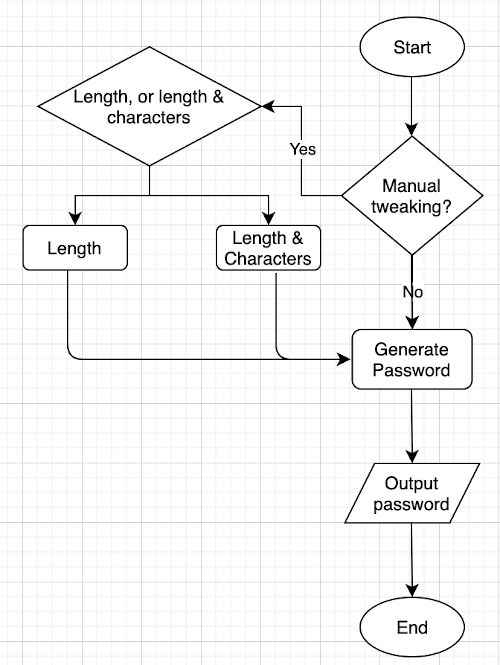
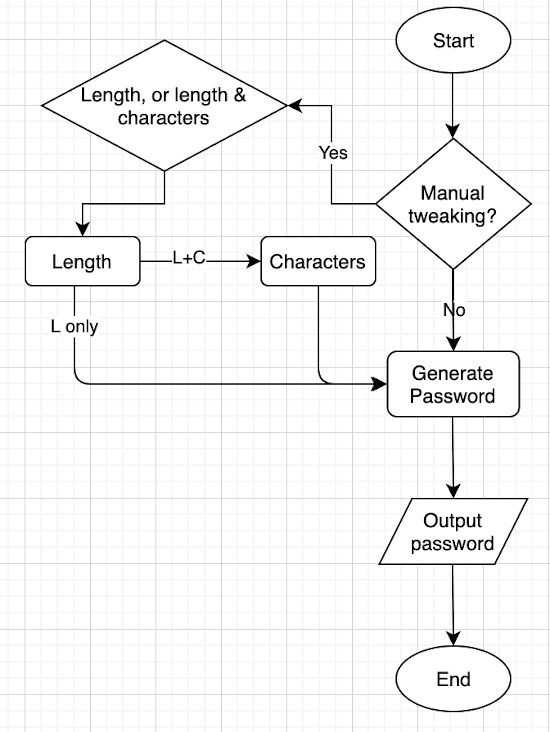
Finalise the main program

Changed region(s): [[0.03, 0.0, 0.99, 0.9925], [0.3, 0.3308, 0.39, 0.3609], [0.93, 0.4812, 0.96, 0.5113]]

diff --git a/script.js b/script.js
@@ -54,9 +54,9 @@ function writePassword() {
       }
       return shufflePassword(password);
     };
+
+    // Generate 8 character password through pre-determined patterns
     var generate8charPassword = function () {
-      var password = "";
-      // Numbers of special character, numeric, uppercase, lowercase
       var patternCollection = [
         [1, 1, 4, 2],
         [1, 1, 2, 4],
@@ -69,7 +69,6 @@ function writePassword() {
         [2, 3, 2, 1],
         [2, 3, 1, 2],
       ];
-      // Choose a pattern
       var totalPatternNum = patternCollection.length;
       var targetPatternIndex = Math.floor(Math.random() * totalPatternNum);
       var targetPattern = patternCollection[targetPatternIndex];
@@ -85,6 +84,7 @@ function writePassword() {
       );
     };
 
+    // Generate password through pre-determined pattern proportional to length range
     var generatePasswordByLength = function (length) {
       var password = "";
       var pattern;
@@ -130,52 +130,121 @@ function writePassword() {
 
     // Program starts here.
 
-    var tweakPassword = window.confirm(
-      "Would you like to manually tweak your password?"
+    var adjustPassword = window.confirm(
+      "Would you like to manually adjust your password?"
     );
 
-    if (tweakPassword) {
-      let exitTweakPassword = false;
-      while (!exitTweakPassword) {
-        var tweakOption = window.prompt(
-          "Would you like to change password length(L), character distribution(C) or both(LC)? Please key in 'L', 'C' or 'LC'."
+    if (adjustPassword) {
+      let exitadjustPassword = false;
+      while (!exitadjustPassword) {
+        var adjustOption = window.prompt(
+          "Would you like to change password length(L) or length together with characters (LC)? Please key in 'L' or 'LC'."
         );
-        if (tweakOption === null) {
+        if (adjustOption === null) {
           window.alert("You've cancelled the operation. Please try again.");
           return "";
-        } else if (
-          tweakOption == "L" ||
-          tweakOption == "C" ||
-          tweakOption == "LC"
-        ) {
-          switch (tweakOption) {
-            case "L":
-              let exitLengthOption = false;
-              while (!exitLengthOption) {
-                var desiredLength = window.prompt(
-                  "How long would you like your password be (must be longer than 8 and shorter than 128 characters. Please key in the length in number."
-                );
-                if (desiredLength === null) {
-                  window.alert(
-                    "You've cancelled the operation. Please try again."
+        } else if (adjustOption == "L" || adjustOption == "LC") {
+          let exitLengthOption = false;
+          // Loop to catch invalid input
+          while (!exitLengthOption) {
+            var desiredLength = window.prompt(
+              "How long would you like your password be? Your passwaord must be longer than 8 (inclusive) and shorter than 128 (inclusive) characters. Please key in the length in number."
+            );
+            // Convert number in string to integer
+            var desiredLengthInt = parseInt(desiredLength);
+            if (desiredLength === null) {
+              window.alert("You've cancelled the operation. Please try again.");
+              return "";
+            } else if (desiredLengthInt <= 128 && desiredLengthInt >= 8) {
+              if (adjustOption == "LC") {
+                let exitadjustSpecial = false;
+                while (!exitadjustSpecial) {
+                  var desiredSpecial = window.prompt(
+                    `Specify how many special characters you desire in your password. Remember your password length was set to ${desiredLength} earlier.`
                   );
-                  return "";
-                } else if (desiredLength <= 128 && desiredLength >= 8) {
-                  return generatePasswordByLength(desiredLength);
-                } else {
-                  window.alert("Invalid input!");
+                  var desiredSpecialInt = parseInt(desiredSpecial);
+                  if (desiredSpecial === null) {
+                    window.alert(
+                      "You've cancelled the operation. Please try again."
+                    );
+                    return "";
+                  } else if (
+                    // The biggest number should still leave 3 to accommondate the rest.
+                    desiredSpecialInt >= 1 &&
+                    desiredSpecialInt < desiredLengthInt - 3
+                  ) {
+                    let exitadjustNumeric = false;
+                    while (!exitadjustNumeric) {
+                      var desiredNumeric = window.prompt(
+                        `Specify how many numeric characters you desire. Remember your password length was set to ${desiredLength} earlier and you have set ${desiredSpecial} special characters.`
+                      );
+                      var desiredNumericInt = parseInt(desiredNumeric);
+                      if (desiredNumeric === null) {
+                        window.alert(
+                          "You've cancelled the operation. Please try again."
+                        );
+                        return "";
+                      } else if (
+                        // The biggest number should still leave 2 to accommondate the rest.
+                        desiredNumericInt >= 1 &&
+                        desiredNumericInt <
+                          desiredLengthInt - desiredSpecialInt - 2
+                      ) {
+                        let exitadjustUppercase = false;
+                        while (!exitadjustUppercase) {
+                          var desiredUppercase = window.prompt(
+                            `Specify how many uppercase characters you desire. Remember your password length was set to ${desiredLength} earlier. You have also set ${desiredSpecial} special characters and ${desiredNumeric} numeric characters.`
+                          );
+                          var desiredUppercaseInt = parseInt(desiredUppercase);
+                          if (desiredUppercase === null) {
+                            window.alert(
+                              "You've cancelled the operation. Please try again."
+                            );
+                          } else if (
+                            // The biggest number should still leave 1 for the lowercase.
+                            desiredUppercaseInt >= 1 &&
+                            desiredUppercaseInt <
+                              desiredLengthInt -
+                                desiredSpecialInt -
+                                desiredNumericInt -
+                                1
+                          ) {
+                            window.alert(
+                              "Your password is ready. Click OK to collect."
+                            );
+                            var specialCharNum = desiredSpecialInt;
+                            var numericCharNum = desiredNumericInt;
+                            var uppercaseCharNum = desiredUppercaseInt;
+                            var lowercaseCharNum =
+                              desiredLengthInt -
+                              (specialCharNum +
+                                numericCharNum +
+                                uppercaseCharNum);
+                            return formulatePassword(
+                              specialCharNum,
+                              numericCharNum,
+                              uppercaseCharNum,
+                              lowercaseCharNum
+                            );
+                          } else {
+                            window.alert("Invalid input!");
+                          }
+                        }
+                      } else {
+                        window.alert("Invalid input!");
+                      }
+                    }
+                  } else {
+                    window.alert("Invalid input!");
+                  }
                 }
               }
-              break;
-            case "C":
-              let exitCharOption = false;
-              while (!exitCharOption) {
-                var 
-              }
-              break;
+              window.alert("You password is ready. Click OK to collect it.");
+              return generatePasswordByLength(desiredLength);
+            } else {
+              window.alert("Invalid input!");
+            }
           }
-          return "Yes you are at the right place";
-          exitTweakPassword = true;
         } else {
           window.alert("Invalid input!");
         }
